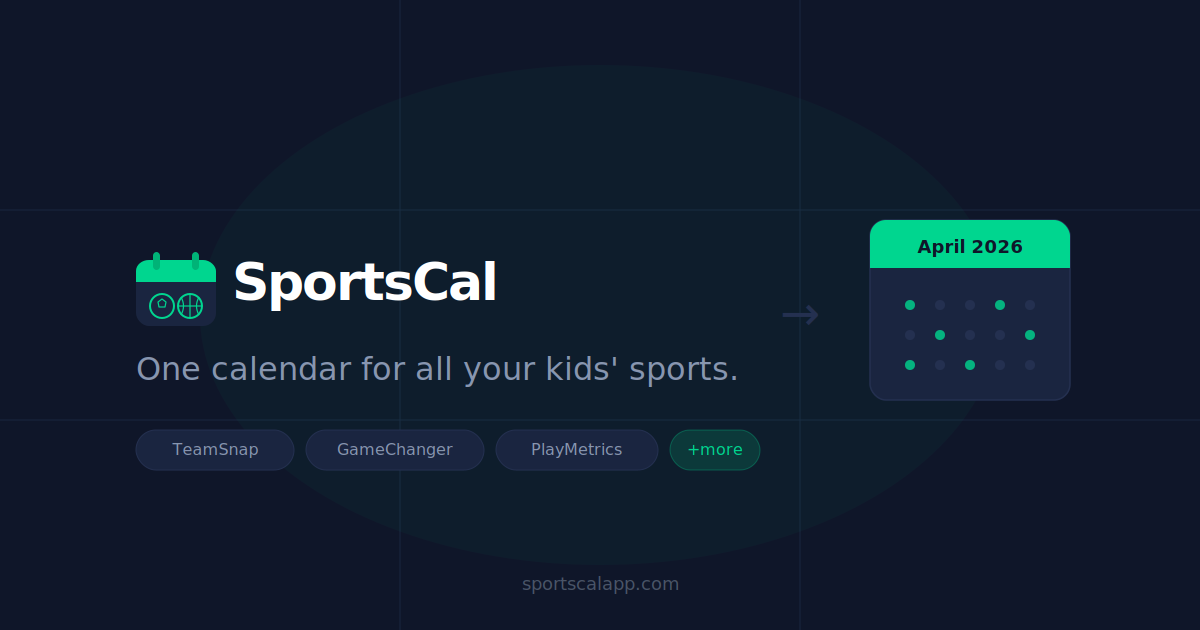
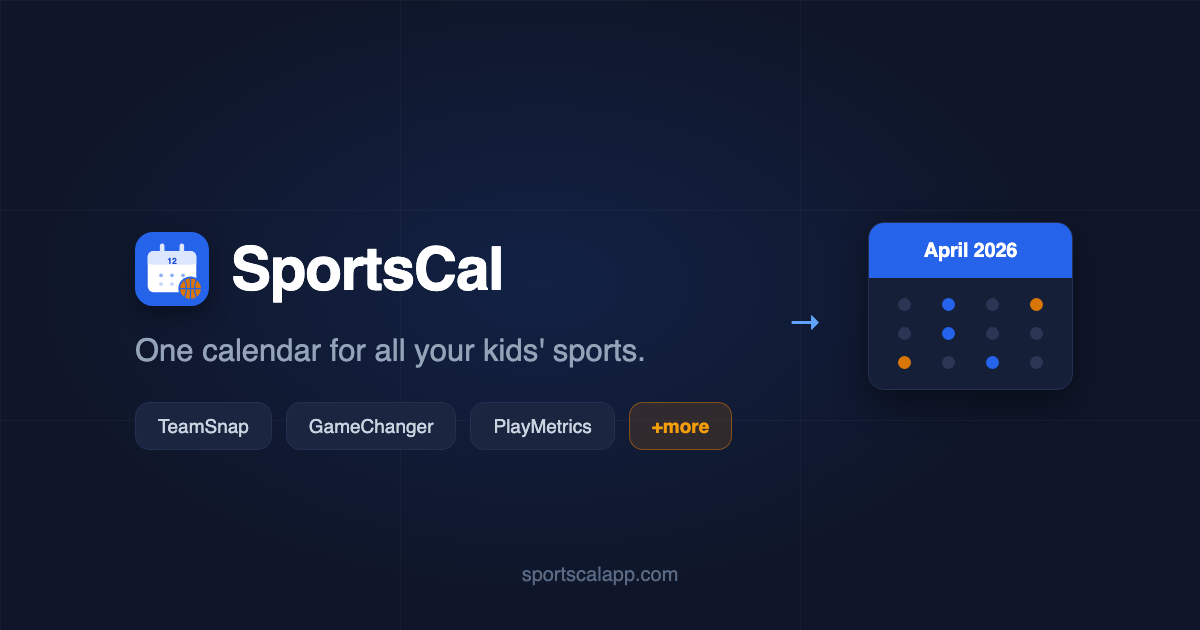
landing: reskin to the new look (blue accent, amber CTAs)
Swap the brand green (#00d68f) for trust-blue across all landing pages and
adopt the app's bridge tokens so contrast stays correct:

- --accent → #2563EB, --accent-dim → #1D4ED8
- --accent-on-dark #60A5FA for accent text on the navy hero/sections
- primary CTAs → amber (--cta #b45309) with white --on-accent text
- other accent fills (badges, mock-calendar header) → white text on blue

og-image.png regenerated in the new look. Multi-color source-app labels
left as-is (intentionally varied).

diff --git a/frontend/landing/pricing.html b/frontend/landing/pricing.html
@@ -18,7 +18,11 @@
       --navy: #0f1629; --navy-light: #1a2540; --navy-mid: #243050;
       --slate: #8896b0; --slate-light: #b8c4d8;
       --white: #ffffff; --off-white: #f4f6fa; --border: #e8ecf4;
-      --accent: #00d68f; --accent-dim: #00b377;
+      --accent: #2563EB; --accent-dim: #1D4ED8;
+      --accent-on-dark: #60A5FA;
+      --cta:        #b45309;
+      --cta-dim:    #92400e;
+      --on-accent:  #ffffff;
       --font: 'DM Sans', sans-serif;
     }
     html { scroll-behavior: smooth; }
@@ -38,8 +42,8 @@
     .nav-links { display: flex; align-items: center; gap: 8px; }
     .btn-nav-login { padding: 8px 16px; border-radius: 8px; font-size: 14px; font-weight: 500; color: var(--slate-light); background: transparent; border: none; cursor: pointer; font-family: var(--font); transition: color 0.15s; }
     .btn-nav-login:hover { color: var(--white); }
-    .btn-nav-cta { padding: 8px 18px; border-radius: 8px; font-size: 14px; font-weight: 600; color: var(--navy); background: var(--accent); border: none; cursor: pointer; font-family: var(--font); transition: background 0.15s; }
-    .btn-nav-cta:hover { background: var(--accent-dim); }
+    .btn-nav-cta { padding: 8px 18px; border-radius: 8px; font-size: 14px; font-weight: 600; color: var(--on-accent); background: var(--cta); border: none; cursor: pointer; font-family: var(--font); transition: background 0.15s; }
+    .btn-nav-cta:hover { background: var(--cta-dim); }
 
     .hero {
       background: var(--navy); padding: 120px 24px 80px;
@@ -48,11 +52,11 @@
     .hero::before {
       content: ''; position: absolute; top: -200px; left: 50%;
       transform: translateX(-50%); width: 600px; height: 600px;
-      background: radial-gradient(circle, rgba(0,214,143,0.1) 0%, transparent 70%);
+      background: radial-gradient(circle, rgba(37,99,235,0.1) 0%, transparent 70%);
       pointer-events: none;
     }
     .hero h1 { font-size: clamp(32px, 5vw, 52px); font-weight: 600; color: var(--white); letter-spacing: -0.03em; line-height: 1.1; margin-bottom: 16px; }
-    .hero h1 span { color: var(--accent); }
+    .hero h1 span { color: var(--accent-on-dark); }
     .hero p { font-size: 18px; color: var(--slate); font-weight: 300; }
 
     .pricing-wrap { max-width: 780px; margin: 0 auto; padding: 80px 24px 100px; }
@@ -79,7 +83,7 @@
     }
     .toggle-switch.on::after { transform: translateX(24px); }
     .badge-save {
-      background: var(--accent); color: var(--navy);
+      background: var(--accent); color: var(--on-accent);
       font-size: 11px; font-weight: 700; padding: 3px 8px;
       border-radius: 20px; letter-spacing: 0.03em;
     }
@@ -97,7 +101,7 @@
     }
     .pricing-badge {
       position: absolute; top: -13px; left: 50%; transform: translateX(-50%);
-      background: var(--accent); color: var(--navy);
+      background: var(--accent); color: var(--on-accent);
       font-size: 11px; font-weight: 700; padding: 4px 16px;
       border-radius: 100px; letter-spacing: 0.04em; text-transform: uppercase; white-space: nowrap;
     }
@@ -112,8 +116,8 @@
     .plan-features li.no { color: var(--slate-light); }
 
     .plan-cta { display: block; width: 100%; padding: 14px; border-radius: 10px; font-size: 15px; font-weight: 600; text-align: center; font-family: var(--font); cursor: pointer; transition: all 0.15s; text-decoration: none; }
-    .plan-cta-primary { background: var(--accent); color: var(--navy); border: none; }
-    .plan-cta-primary:hover { background: var(--accent-dim); }
+    .plan-cta-primary { background: var(--cta); color: var(--on-accent); border: none; }
+    .plan-cta-primary:hover { background: var(--cta-dim); }
     .plan-cta-ghost { background: transparent; color: var(--navy); border: 1.5px solid var(--border); }
     .plan-cta-ghost:hover { border-color: var(--navy); }
 
@@ -127,7 +131,7 @@
     .compare-table tr:last-child td { border-bottom: none; }
     .compare-table .check { color: var(--accent-dim); font-size: 16px; font-weight: 700; }
     .compare-table .dash { color: var(--slate-light); }
-    .compare-table .highlight { background: rgba(0,214,143,0.04); }
+    .compare-table .highlight { background: rgba(37,99,235,0.04); }
 
     .faq { max-width: 640px; margin: 0 auto; padding: 0 24px 100px; }
     .faq h2 { font-size: 24px; font-weight: 600; letter-spacing: -0.02em; margin-bottom: 32px; text-align: center; }
@@ -139,8 +143,8 @@
     .final-cta { background: var(--navy); padding: 80px 24px; text-align: center; }
     .final-cta h2 { font-size: clamp(24px, 4vw, 40px); font-weight: 600; color: var(--white); letter-spacing: -0.02em; margin-bottom: 12px; }
     .final-cta p { font-size: 16px; color: var(--slate); margin-bottom: 32px; font-weight: 300; }
-    .btn-primary { display: inline-flex; align-items: center; gap: 8px; padding: 14px 28px; border-radius: 10px; font-size: 16px; font-weight: 600; color: var(--navy); background: var(--accent); border: none; cursor: pointer; font-family: var(--font); transition: all 0.15s; text-decoration: none; }
-    .btn-primary:hover { background: var(--accent-dim); transform: translateY(-1px); }
+    .btn-primary { display: inline-flex; align-items: center; gap: 8px; padding: 14px 28px; border-radius: 10px; font-size: 16px; font-weight: 600; color: var(--on-accent); background: var(--cta); border: none; cursor: pointer; font-family: var(--font); transition: all 0.15s; text-decoration: none; }
+    .btn-primary:hover { background: var(--cta-dim); transform: translateY(-1px); }
 
     footer { background: var(--navy); border-top: 1px solid rgba(255,255,255,0.06); padding: 28px 24px; text-align: center; }
     footer p { font-size: 13px; color: var(--slate); }

diff --git a/frontend/landing/index.html b/frontend/landing/index.html
@@ -76,8 +76,12 @@
       --white:      #ffffff;
       --off-white:  #f4f6fa;
       --border:     #e8ecf4;
-      --accent:     #00d68f;
-      --accent-dim: #00b377;
+      --accent:     #2563EB;
+      --accent-dim: #1D4ED8;
+      --accent-on-dark: #60A5FA;
+      --cta:        #b45309;
+      --cta-dim:    #92400e;
+      --on-accent:  #ffffff;
       --font:       'DM Sans', sans-serif;
       --mono:       'DM Mono', monospace;
     }
@@ -145,13 +149,13 @@
       padding: 8px 18px;
       border-radius: 8px;
       font-size: 14px; font-weight: 600;
-      color: var(--navy);
-      background: var(--accent);
+      color: var(--on-accent);
+      background: var(--cta);
       border: none; cursor: pointer;
       font-family: var(--font);
       transition: background 0.15s;
     }
-    .btn-nav-cta:hover { background: var(--accent-dim); }
+    .btn-nav-cta:hover { background: var(--cta-dim); }
 
     /* ---- HERO ---- */
     .hero {
@@ -168,7 +172,7 @@
       top: -200px; left: 50%;
       transform: translateX(-50%);
       width: 600px; height: 600px;
-      background: radial-gradient(circle, rgba(0,214,143,0.12) 0%, transparent 70%);
+      background: radial-gradient(circle, rgba(37,99,235,0.12) 0%, transparent 70%);
       pointer-events: none;
     }
 
@@ -176,13 +180,13 @@
       display: inline-flex;
       align-items: center;
       gap: 8px;
-      background: rgba(0,214,143,0.1);
-      border: 1px solid rgba(0,214,143,0.2);
+      background: rgba(37,99,235,0.1);
+      border: 1px solid rgba(37,99,235,0.2);
       border-radius: 100px;
       padding: 6px 14px;
       font-size: 13px;
       font-weight: 500;
-      color: var(--accent);
+      color: var(--accent-on-dark);
       margin-bottom: 28px;
       letter-spacing: 0.02em;
     }
@@ -198,7 +202,7 @@
     }
 
     .hero h1 span {
-      color: var(--accent);
+      color: var(--accent-on-dark);
     }
 
     .hero-sub {
@@ -226,8 +230,8 @@
       border-radius: 10px;
       font-size: 16px;
       font-weight: 600;
-      color: var(--navy);
-      background: var(--accent);
+      color: var(--on-accent);
+      background: var(--cta);
       border: none;
       cursor: pointer;
       font-family: var(--font);
@@ -235,7 +239,7 @@
       text-decoration: none;
     }
     .btn-primary:hover {
-      background: var(--accent-dim);
+      background: var(--cta-dim);
       transform: translateY(-1px);
     }
     .btn-ghost {
@@ -365,7 +369,7 @@
       border-radius: 10px;
       display: flex; align-items: center; justify-content: center;
       font-size: 18px; font-weight: 700;
-      color: var(--navy);
+      color: var(--on-accent);
       margin-bottom: 20px;
     }
 
@@ -484,7 +488,7 @@
       top: -12px; left: 50%;
       transform: translateX(-50%);
       background: var(--accent);
-      color: var(--navy);
+      color: var(--on-accent);
       font-size: 11px;
       font-weight: 700;
       padding: 4px 14px;
@@ -564,11 +568,11 @@
     }
 
     .plan-cta-primary {
-      background: var(--accent);
-      color: var(--navy);
+      background: var(--cta);
+      color: var(--on-accent);
       border: none;
     }
-    .plan-cta-primary:hover { background: var(--accent-dim); }
+    .plan-cta-primary:hover { background: var(--cta-dim); }
 
     .plan-cta-ghost {
       background: transparent;
@@ -733,13 +737,13 @@
     .order-cal-header-title {
       font-size: 13px;
       font-weight: 700;
-      color: var(--navy);
+      color: var(--on-accent);
       letter-spacing: -0.01em;
     }
 
     .order-cal-header-sub {
       font-size: 11px;
-      color: var(--navy);
+      color: var(--on-accent);
       opacity: 0.7;
     }
 

diff --git a/frontend/landing/help.html b/frontend/landing/help.html
@@ -15,7 +15,7 @@
     *, *::before, *::after { box-sizing: border-box; margin: 0; padding: 0; }
     :root {
       --navy: #0f1629; --slate: #8896b0; --slate-light: #b8c4d8; --white: #ffffff;
-      --off-white: #f4f6fa; --border: #e8ecf4; --accent: #00d68f;
+      --off-white: #f4f6fa; --border: #e8ecf4; --accent: #2563EB; --accent-dim: #1D4ED8; --accent-on-dark: #60A5FA; --cta: #b45309; --cta-dim: #92400e; --on-accent: #ffffff;
       --font: 'DM Sans', sans-serif;
     }
     body { font-family: var(--font); background: var(--white); color: var(--navy); -webkit-font-smoothing: antialiased; }
@@ -88,7 +88,7 @@
     }
     .task .premium {
       display: inline-block; font-size: 11px; font-weight: 600;
-      background: rgba(0,214,143,0.10); color: #00845b;
+      background: rgba(37,99,235,0.10); color: #1e40af;
       padding: 2px 8px; border-radius: 10px; margin-left: 8px;
       vertical-align: middle;
     }
@@ -104,7 +104,7 @@
     }
     .still-stuck p { color: var(--slate-light); font-size: 15px; line-height: 1.6; margin-bottom: 16px; }
     .still-stuck a {
-      display: inline-block; background: var(--accent); color: var(--navy);
+      display: inline-block; background: var(--accent); color: var(--on-accent);
       padding: 10px 22px; border-radius: 8px; font-weight: 600;
     }
     .still-stuck a:hover { text-decoration: none; opacity: 0.9; }

diff --git a/frontend/landing/privacy.html b/frontend/landing/privacy.html
@@ -15,7 +15,7 @@
     *, *::before, *::after { box-sizing: border-box; margin: 0; padding: 0; }
     :root {
       --navy: #0f1629; --slate: #8896b0; --white: #ffffff;
-      --off-white: #f4f6fa; --border: #e8ecf4; --accent: #00d68f;
+      --off-white: #f4f6fa; --border: #e8ecf4; --accent: #2563EB; --accent-dim: #1D4ED8; --accent-on-dark: #60A5FA; --cta: #b45309; --cta-dim: #92400e; --on-accent: #ffffff;
       --font: 'DM Sans', sans-serif;
     }
     body { font-family: var(--font); background: var(--white); color: var(--navy); -webkit-font-smoothing: antialiased; }

diff --git a/frontend/landing/terms.html b/frontend/landing/terms.html
@@ -15,7 +15,7 @@
     *, *::before, *::after { box-sizing: border-box; margin: 0; padding: 0; }
     :root {
       --navy: #0f1629; --slate: #8896b0; --white: #ffffff;
-      --off-white: #f4f6fa; --border: #e8ecf4; --accent: #00d68f;
+      --off-white: #f4f6fa; --border: #e8ecf4; --accent: #2563EB; --accent-dim: #1D4ED8; --accent-on-dark: #60A5FA; --cta: #b45309; --cta-dim: #92400e; --on-accent: #ffffff;
       --font: 'DM Sans', sans-serif;
     }
     body { font-family: var(--font); background: var(--white); color: var(--navy); -webkit-font-smoothing: antialiased; }
